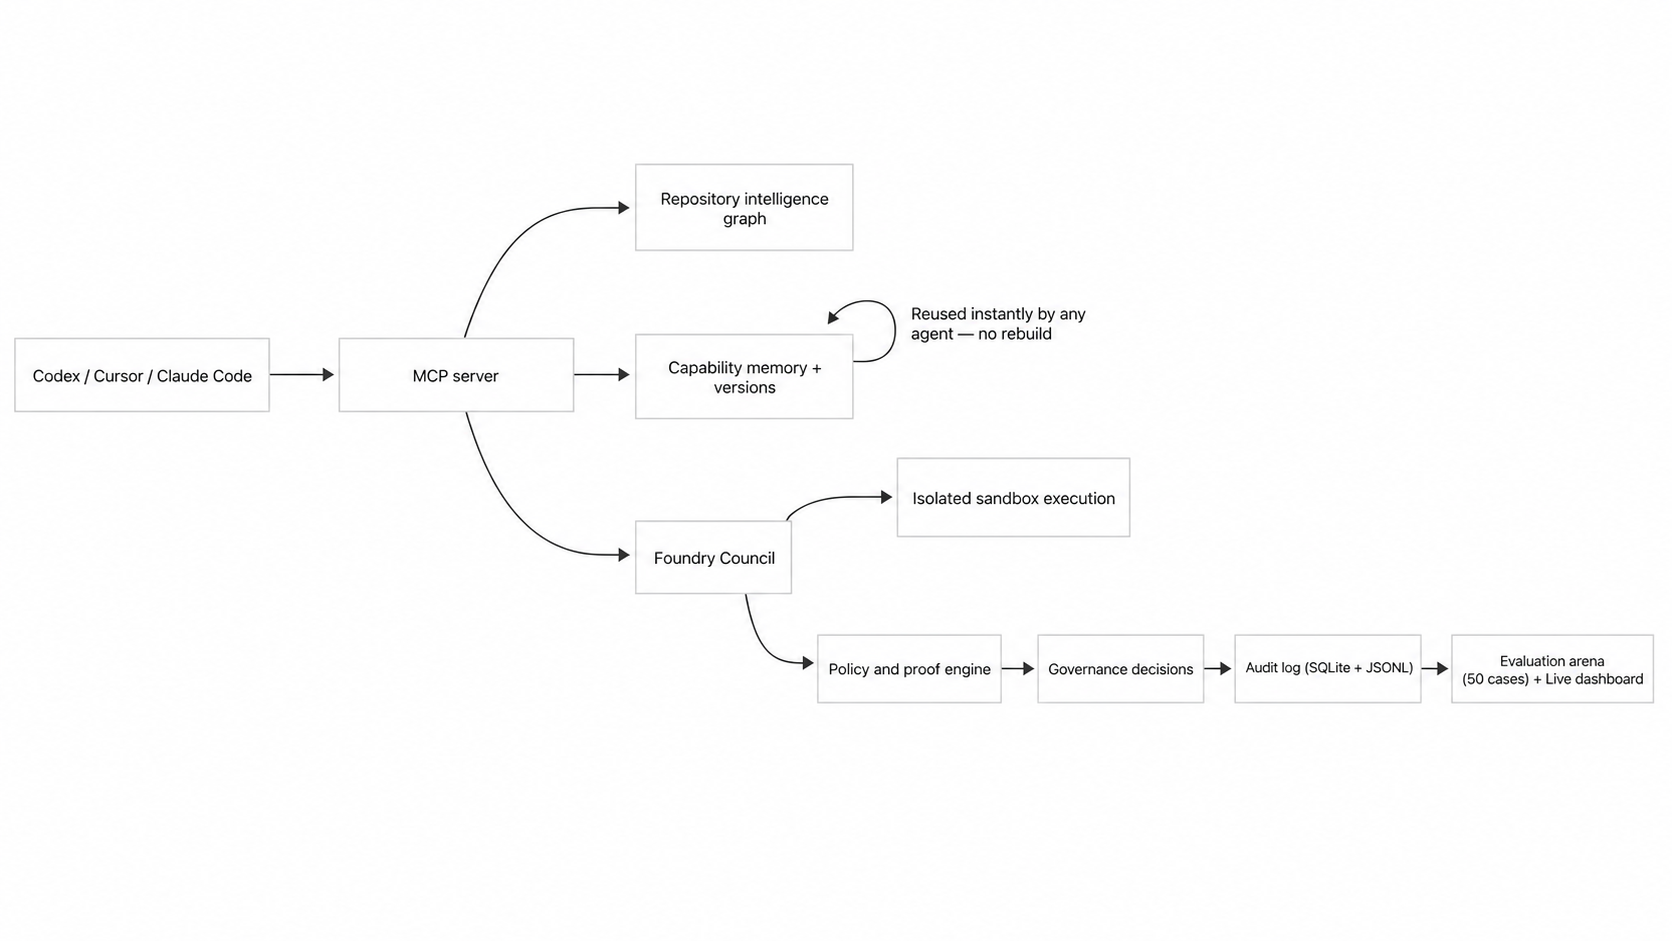
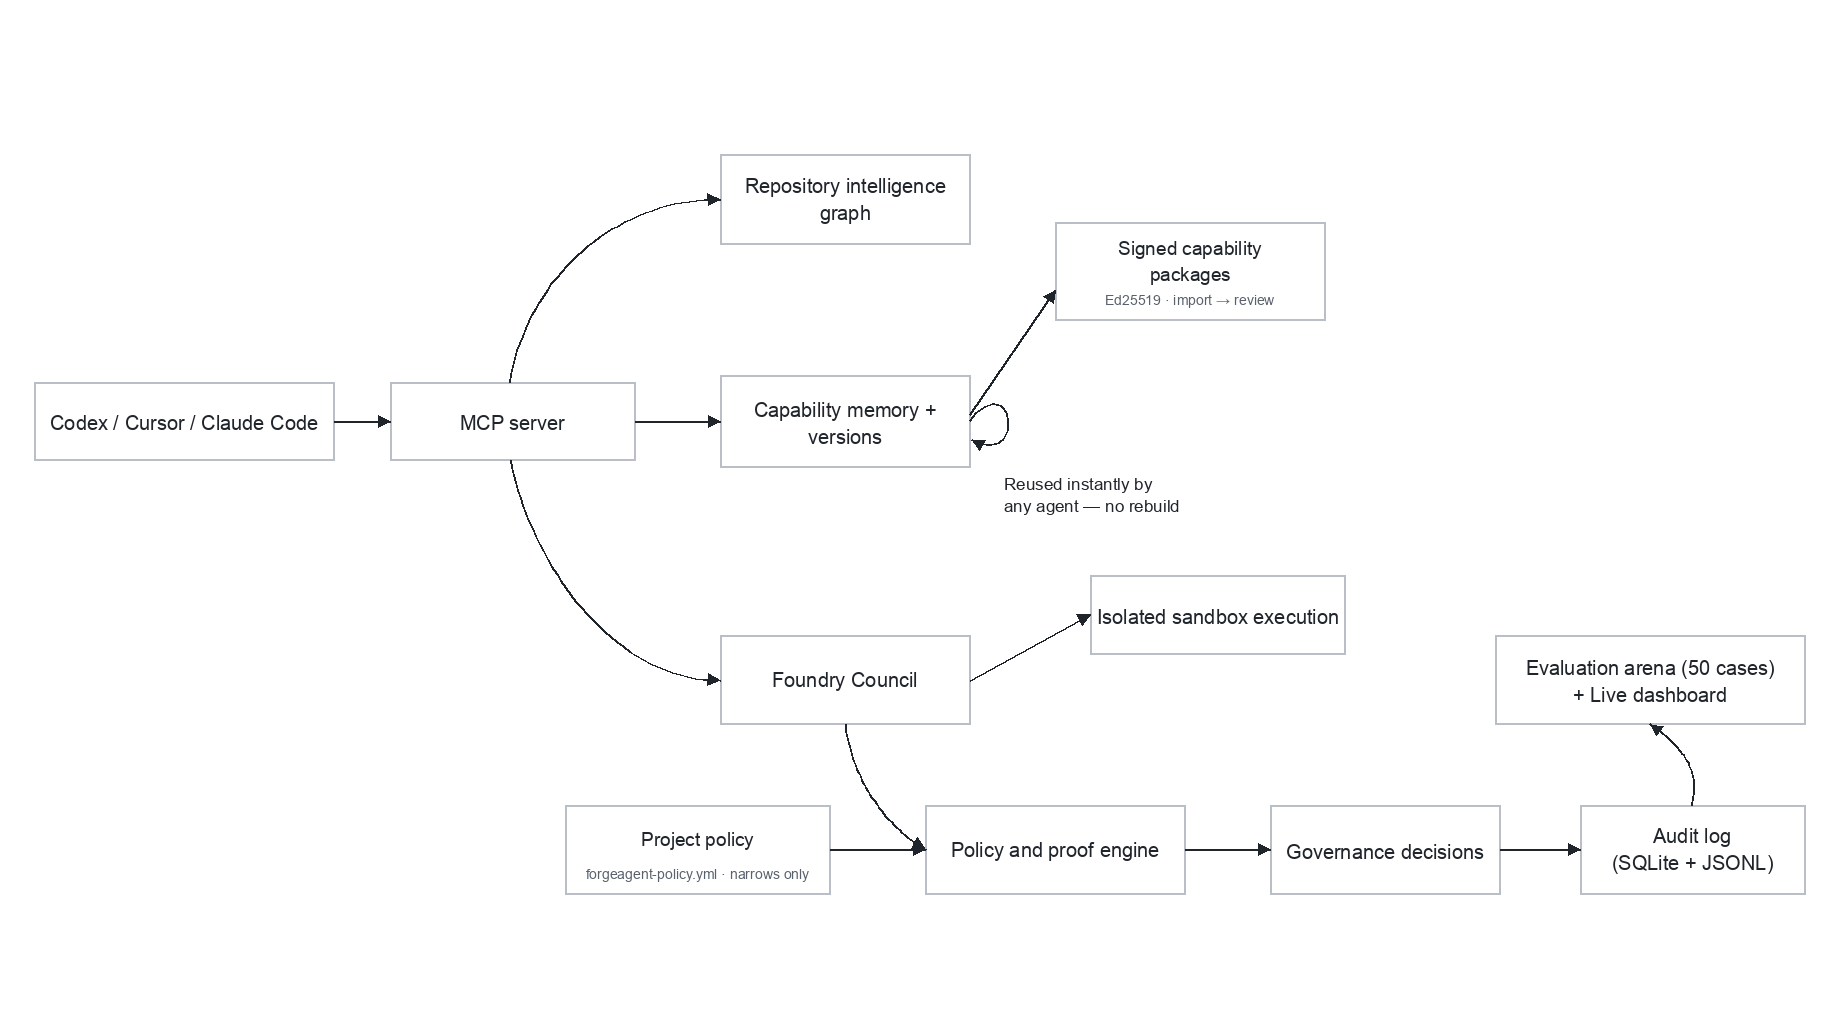
docs: extend regenerable architecture diagram

diff --git a/scripts/generate_architecture_diagram.py b/scripts/generate_architecture_diagram.py
@@ -1,0 +1,135 @@
+#!/usr/bin/env python3
+"""Regenerate docs/forgeagent-architecture.png from verified local components.
+
+This documentation-only renderer requires Pillow (available in the contributor
+environment used to maintain the project). It does not inspect or execute
+capability code; node labels intentionally map to the files noted in README.
+"""
+
+from __future__ import annotations
+
+from pathlib import Path
+
+from PIL import Image, ImageDraw, ImageFont
+
+
+ROOT = Path(__file__).resolve().parents[1]
+OUTPUT = ROOT / "docs" / "forgeagent-architecture.png"
+WIDTH, HEIGHT = 1840, 1020
+INK = "#20242b"
+OUTLINE = "#b9bec7"
+MUTED = "#59616d"
+
+
+def font(size: int) -> ImageFont.FreeTypeFont:
+    """Use the system sans font in the native macOS contributor environment."""
+    for candidate in (
+        "/System/Library/Fonts/Supplemental/Arial.ttf",
+        "/System/Library/Fonts/Helvetica.ttc",
+    ):
+        if Path(candidate).is_file():
+            return ImageFont.truetype(candidate, size)
+    raise RuntimeError("Architecture rendering needs a system TrueType sans font.")
+
+
+def centred_text(draw: ImageDraw.ImageDraw, box: tuple[int, int, int, int], lines: list[str], text_font: ImageFont.FreeTypeFont, fill: str = INK) -> None:
+    line_heights = [draw.textbbox((0, 0), line, font=text_font)[3] for line in lines]
+    gap = 4
+    height = sum(line_heights) + gap * (len(lines) - 1)
+    y = box[1] + (box[3] - box[1] - height) / 2
+    for line, line_height in zip(lines, line_heights):
+        left, _, right, _ = draw.textbbox((0, 0), line, font=text_font)
+        x = box[0] + (box[2] - box[0] - (right - left)) / 2
+        draw.text((x, y), line, font=text_font, fill=fill)
+        y += line_height + gap
+
+
+def node(draw: ImageDraw.ImageDraw, box: tuple[int, int, int, int], lines: list[str], subtitle: str | None = None) -> None:
+    draw.rectangle(box, fill="#ffffff", outline=OUTLINE, width=2)
+    if subtitle:
+        primary = font(19)
+        secondary = font(14)
+        primary_box = (box[0] + 10, box[1] + 10, box[2] - 10, box[3] - 30)
+        centred_text(draw, primary_box, lines, primary)
+        centred_text(draw, (box[0] + 10, box[3] - 31, box[2] - 10, box[3] - 8), [subtitle], secondary, MUTED)
+    else:
+        centred_text(draw, box, lines, font(20))
+
+
+def arrow(draw: ImageDraw.ImageDraw, start: tuple[float, float], end: tuple[float, float], width: int = 2) -> None:
+    draw.line([start, end], fill=INK, width=width)
+    dx, dy = end[0] - start[0], end[1] - start[1]
+    length = max((dx * dx + dy * dy) ** 0.5, 1)
+    ux, uy = dx / length, dy / length
+    px, py = -uy, ux
+    tip = end
+    left = (end[0] - 12 * ux + 6 * px, end[1] - 12 * uy + 6 * py)
+    right = (end[0] - 12 * ux - 6 * px, end[1] - 12 * uy - 6 * py)
+    draw.polygon([tip, left, right], fill=INK)
+
+
+def curve(draw: ImageDraw.ImageDraw, points: tuple[tuple[float, float], tuple[float, float], tuple[float, float], tuple[float, float]]) -> None:
+    p0, p1, p2, p3 = points
+    samples: list[tuple[float, float]] = []
+    for step in range(41):
+        t = step / 40
+        u = 1 - t
+        samples.append((
+            u**3 * p0[0] + 3 * u**2 * t * p1[0] + 3 * u * t**2 * p2[0] + t**3 * p3[0],
+            u**3 * p0[1] + 3 * u**2 * t * p1[1] + 3 * u * t**2 * p2[1] + t**3 * p3[1],
+        ))
+    draw.line(samples, fill=INK, width=2)
+    arrow(draw, samples[-2], samples[-1])
+
+
+def main() -> None:
+    image = Image.new("RGB", (WIDTH, HEIGHT), "#ffffff")
+    draw = ImageDraw.Draw(image)
+
+    client = (34, 382, 334, 460)
+    mcp = (390, 382, 635, 460)
+    graph = (720, 154, 970, 244)
+    memory = (720, 375, 970, 467)
+    packages = (1055, 222, 1325, 320)
+    council = (720, 635, 970, 724)
+    sandbox = (1090, 575, 1345, 654)
+    policy = (925, 805, 1185, 894)
+    project_policy = (565, 805, 830, 894)
+    governance = (1270, 805, 1500, 894)
+    audit = (1580, 805, 1805, 894)
+    evaluation = (1495, 635, 1805, 724)
+
+    node(draw, client, ["Codex / Cursor / Claude Code"])
+    node(draw, mcp, ["MCP server"])
+    node(draw, graph, ["Repository intelligence", "graph"])
+    node(draw, memory, ["Capability memory +", "versions"])
+    node(draw, packages, ["Signed capability", "packages"], "Ed25519 · import → review")
+    node(draw, council, ["Foundry Council"])
+    node(draw, sandbox, ["Isolated sandbox execution"])
+    node(draw, project_policy, ["Project policy"], "forgeagent-policy.yml · narrows only")
+    node(draw, policy, ["Policy and proof engine"])
+    node(draw, governance, ["Governance decisions"])
+    node(draw, audit, ["Audit log", "(SQLite + JSONL)"])
+    node(draw, evaluation, ["Evaluation arena (50 cases)", "+ Live dashboard"])
+
+    arrow(draw, (334, 421), (390, 421))
+    arrow(draw, (635, 421), (720, 421))
+    curve(draw, ((510, 382), (530, 275), (615, 199), (720, 199)))
+    curve(draw, ((510, 460), (530, 560), (610, 680), (720, 680)))
+    arrow(draw, (970, 414), (1055, 290))
+    curve(draw, ((970, 420), (1015, 365), (1025, 470), (972, 440)))
+    draw.text((1004, 474), "Reused instantly by", font=font(17), fill=INK)
+    draw.text((1004, 496), "any agent — no rebuild", font=font(17), fill=INK)
+    arrow(draw, (970, 680), (1090, 614))
+    curve(draw, ((845, 724), (850, 775), (885, 827), (925, 849)))
+    arrow(draw, (830, 849), (925, 849))
+    arrow(draw, (1185, 849), (1270, 849))
+    arrow(draw, (1500, 849), (1580, 849))
+    curve(draw, ((1692, 805), (1700, 775), (1690, 752), (1650, 724)))
+
+    image.save(OUTPUT, "PNG", optimize=True)
+    print(f"Wrote {OUTPUT.relative_to(ROOT)} ({WIDTH}x{HEIGHT})")
+
+
+if __name__ == "__main__":
+    main()